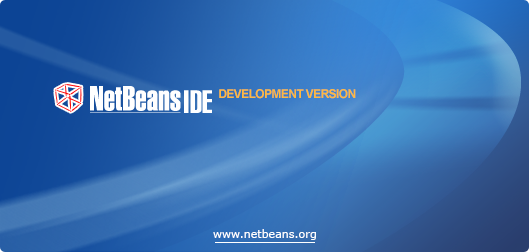
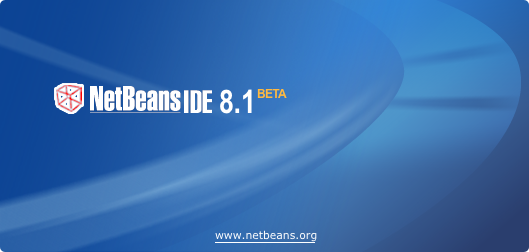
8.1 Beta branding.

diff --git a/installer/infra/build/web/js/build_info.js b/installer/infra/build/web/js/build_info.js
@@ -54,18 +54,19 @@ build_info.ADDITIONAL_BUILD_LOCATION   = "{alternative.languages.page.url}";
 
 build_info.BUILD_LOCATION = "";
 
-build_info.LOAD_OMNITURE_CODE          = 0;
-build_info.LOAD_GOOGLE_ANALYTICS_CODE  = 0;
+build_info.LOAD_OMNITURE_CODE          = 1;
+build_info.LOAD_GOOGLE_ANALYTICS_CODE  = 1;
 build_info.USE_BOUNCER                 = 0;
 build_info.ADD_VERSION_INFO_TO_URL     = 0;
 
 build_info.BOUNCER_URL = "http://services.netbeans.org/bouncer/index.php";
 
-build_info.USE_HTML_ZIP_LISTING = 0;
+build_info.USE_HTML_ZIP_LISTING = 1;
 
 build_info.add_download_tabs = function() {
 	add_download_tab("8.0.2", "http://netbeans.org/downloads/");
-	add_download_tab(DEVELOPMENT_TITLE /*,DEVELOPMENT_BUILDS_LINK*/);
+	add_download_tab("8.1 Beta");
+	add_download_tab(DEVELOPMENT_TITLE,DEVELOPMENT_BUILDS_LINK);
 	add_download_tab(ARCHIVE_TITLE,ARCHIVE_BUILDS_LINK);
 }
 add_build_info(build_info);

diff --git a/installer/infra/build/web/js/common_strings.js b/installer/infra/build/web/js/common_strings.js
@@ -1,7 +1,7 @@
 /*
  * DO NOT ALTER OR REMOVE COPYRIGHT NOTICES OR THIS HEADER.
  *
- * Copyright 1997-2013 Oracle and/or its affiliates. All rights reserved.
+ * Copyright 1997-2015 Oracle and/or its affiliates. All rights reserved.
  *
  * Oracle and Java are registered trademarks of Oracle and/or its affiliates.
  * Other names may be trademarks of their respective owners.
@@ -64,8 +64,8 @@ BUNDLE_LONG_NAMES[3] = "PHP";
 BUNDLE_LONG_NAMES[4] = "C/C++";
 BUNDLE_LONG_NAMES[5] = "All";
 
-var RELEASE_NOTES_LINK  = "http://netbeans.org/community/releases/80/relnotes.html";
-var INSTALL_NOTES_LINK  = "http://netbeans.org/community/releases/80/install.html";
+var RELEASE_NOTES_LINK  = "http://netbeans.org/community/releases/81/relnotes.html";
+var INSTALL_NOTES_LINK  = "http://netbeans.org/community/releases/81/install.html";
 
 var LEGAL_INFO_HEADER = "Important Legal Information:";
 
